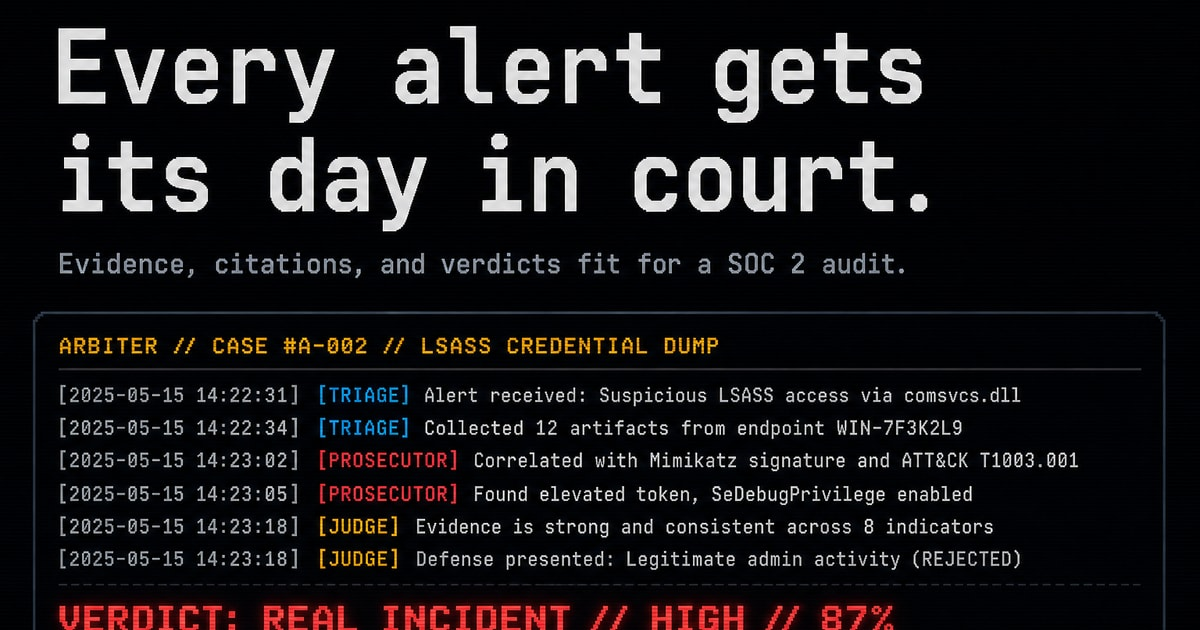
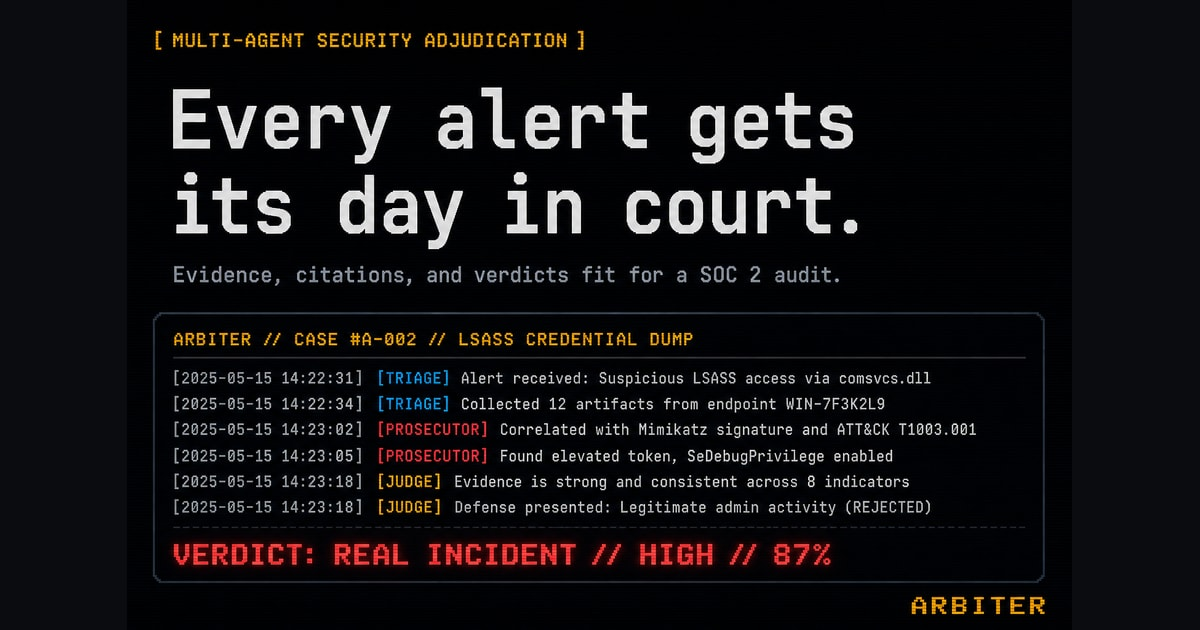
Fix OG images: use contain fit so artwork is not cropped

Changed region(s): [[0.0308, 0.4825, 0.925, 1.0], [0.0308, 0.0302, 0.7708, 0.4524], [0.8633, 0.4825, 0.9558, 0.5127]]

diff --git a/index.html b/index.html
@@ -21,7 +21,7 @@
     <meta property="og:image:height" content="630" />
     <meta property="og:image:alt" content="Arbiter — Every alert gets its day in court. Multi-agent security adjudication terminal preview." />
     <meta property="og:url" content="https://arbiter-live.vercel.app/" />
-    <meta property="og:updated_time" content="2026-06-16T12:00:00Z" />
+    <meta property="og:updated_time" content="2026-06-16T18:00:00Z" />
 
     <!-- Twitter / X -->
     <meta name="twitter:card" content="summary_large_image" />